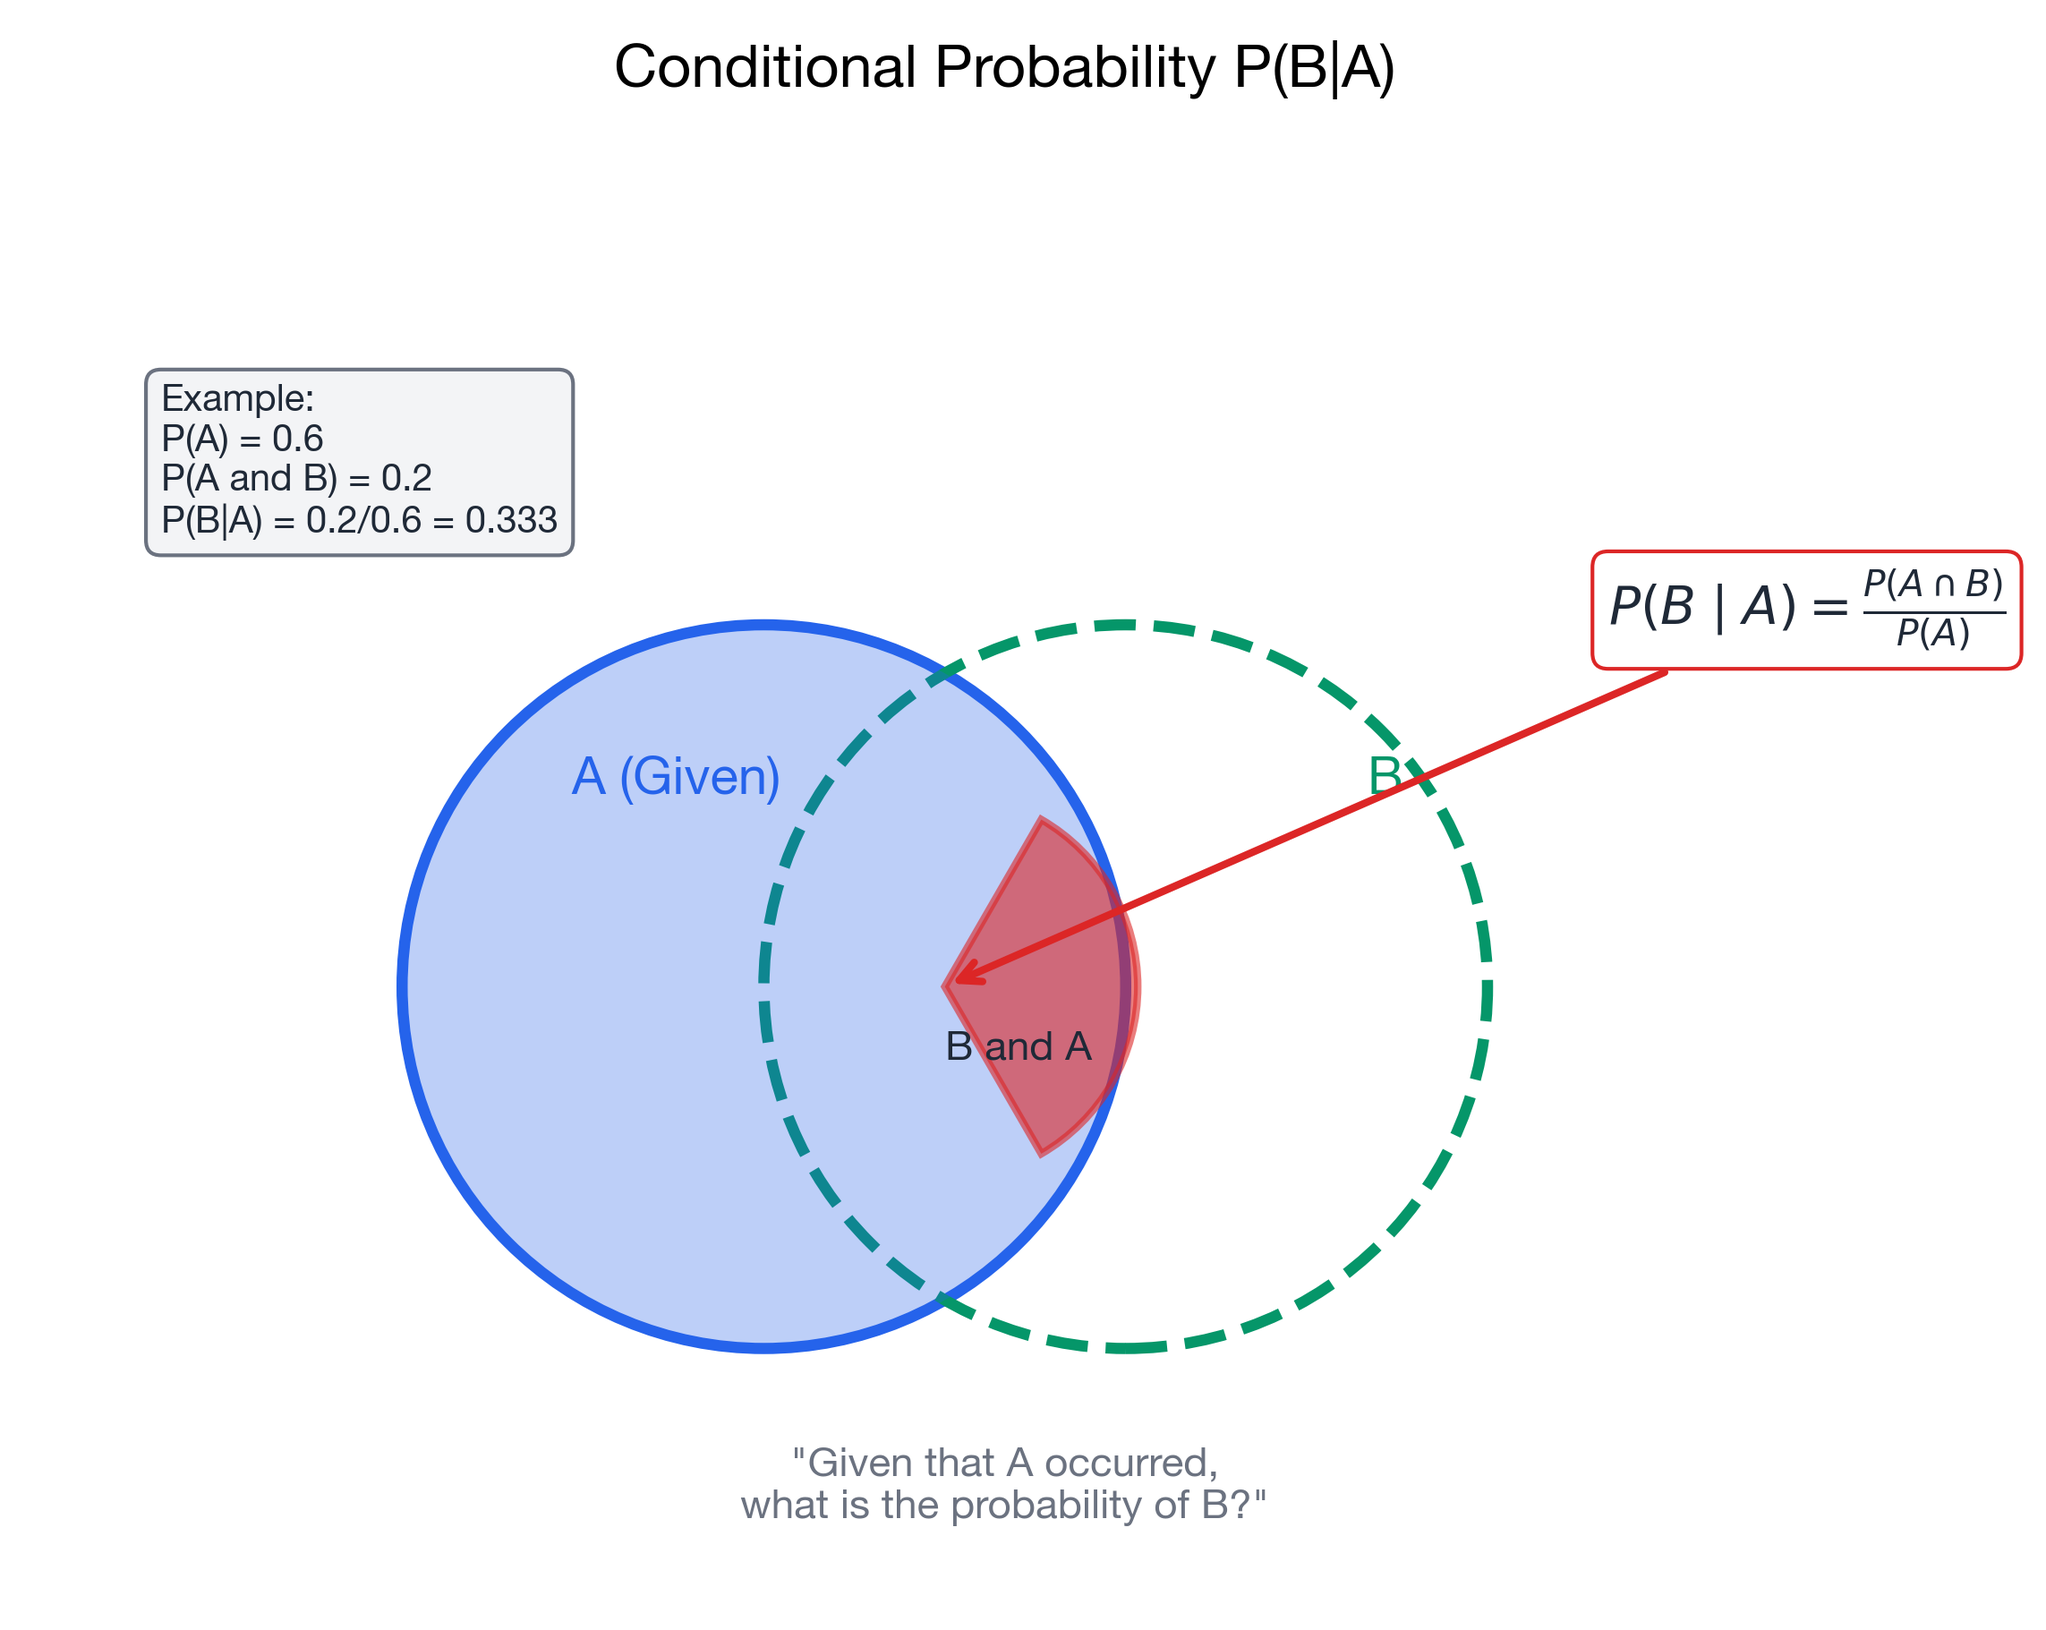
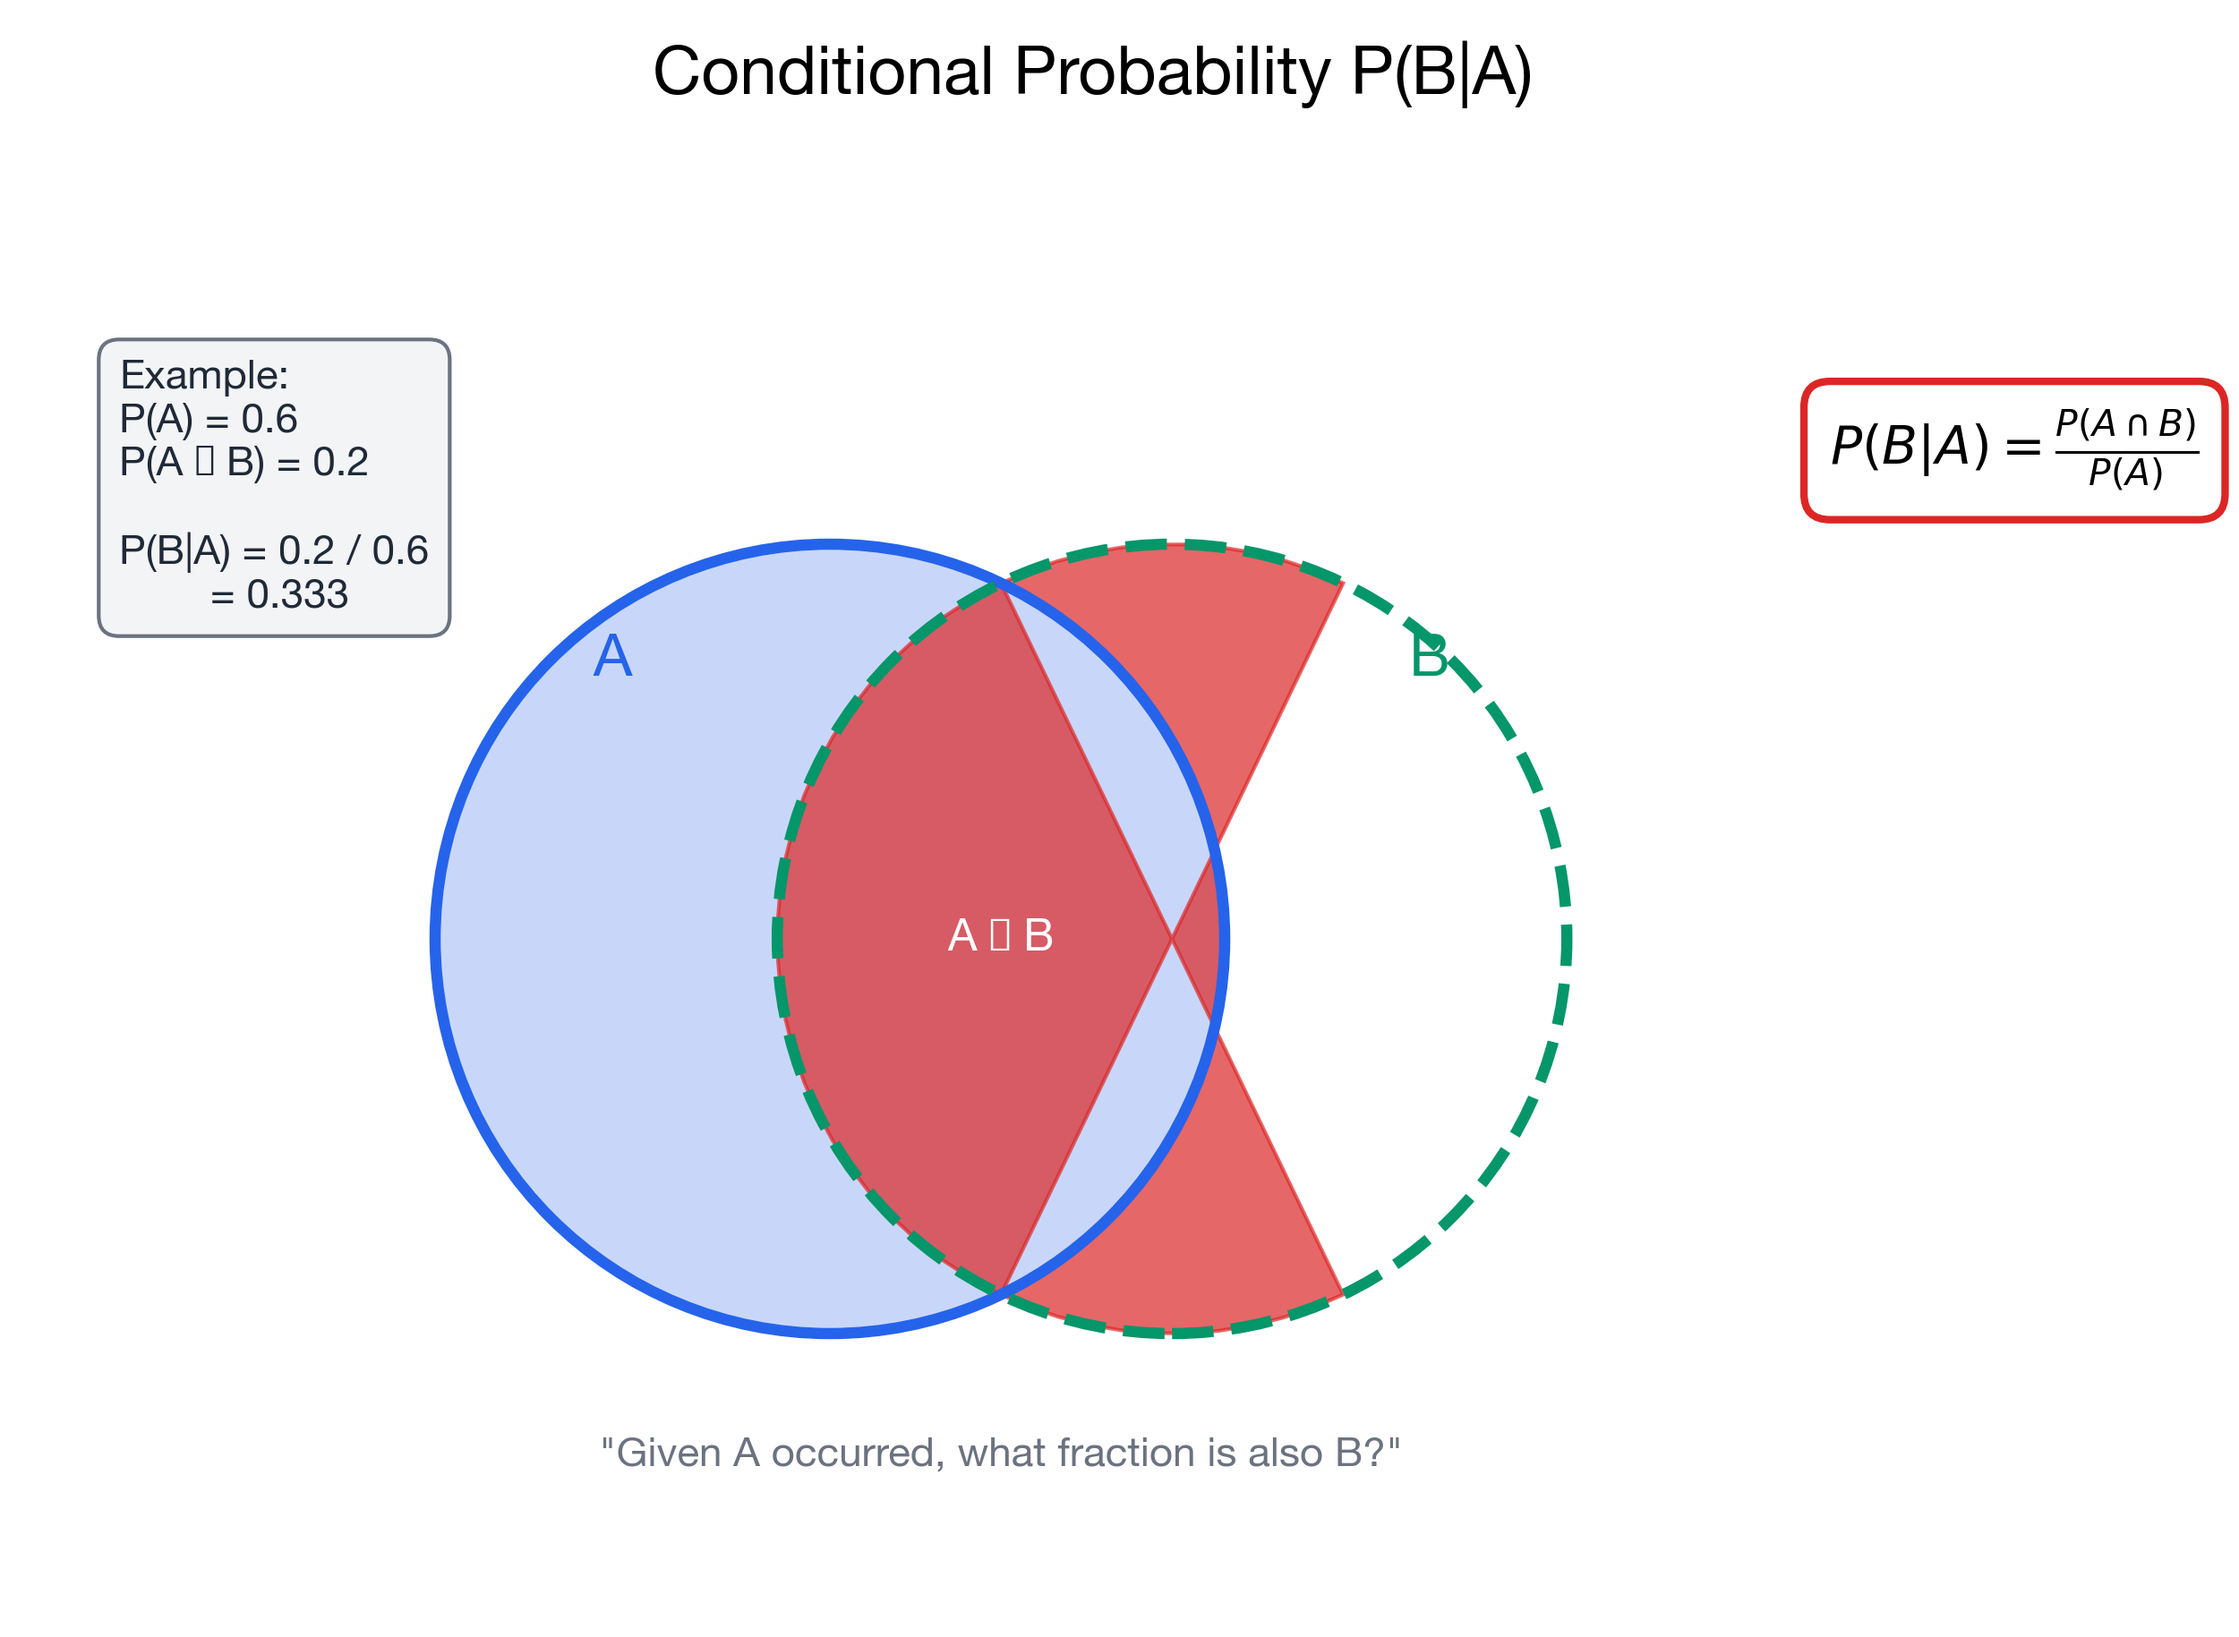
Fix conditional_probability_venn intersection shape
- Calculate proper lens-shaped intersection using arc geometry
- Arcs now perfectly match the circle boundaries
- Removed hacky Wedge approximation
- Better label positioning with A ∩ B centered in intersection
- Cleaner layout with more space

diff --git a/statistics/tools/generate_images.py b/statistics/tools/generate_images.py
@@ -1107,51 +1107,79 @@ def generate_addition_rule_venn():
 
 
 def generate_conditional_probability_venn():
-    """Generate Venn diagram for conditional probability."""
-    fig, ax = plt.subplots(figsize=(10, 7))
+    """Generate Venn diagram for conditional probability with proper intersection."""
+    fig, ax = plt.subplots(figsize=(12, 7))
     ax.set_xlim(-3, 5)
-    ax.set_ylim(-2.5, 3.5)
+    ax.set_ylim(-2.5, 3)
     ax.set_aspect('equal')
     ax.axis('off')
     
-    # Circle A (condition)
-    circle_a = Circle((0, 0), 1.5, facecolor='none', edgecolor=COLORS['primary'], linewidth=3)
-    ax.add_patch(circle_a)
+    # Circle parameters
+    r = 1.5
+    x_a, y_a = 0, 0
+    x_b, y_b = 1.3, 0  # Closer overlap for clearer intersection
     
-    # Circle B
-    circle_b = Circle((1.5, 0), 1.5, facecolor='none', edgecolor=COLORS['accent'], linewidth=3, linestyle='--')
-    ax.add_patch(circle_b)
+    # Create proper lens-shaped intersection using Path
+    from matplotlib.path import Path
+    from matplotlib.patches import PathPatch
     
-    # Highlight A (given)
-    circle_a_fill = Circle((0, 0), 1.5, facecolor=COLORS['primary'], alpha=0.3)
+    # Calculate intersection points
+    d = x_b - x_a  # distance between centers
+    # Intersection points are at x = (d^2 + r^2 - r^2) / (2*d) = d/2 from center A
+    # y = +/- sqrt(r^2 - (d/2)^2)
+    x_intersect = d / 2
+    y_intersect = np.sqrt(r**2 - (d/2)**2)
+    
+    # Create lens shape by combining two arcs
+    theta_a = np.arctan2(y_intersect, x_intersect - x_a)
+    theta_b = np.arctan2(y_intersect, x_intersect - x_b)
+    
+    # Arc from circle A (right side)
+    t1 = np.linspace(-theta_a, theta_a, 50)
+    arc_a_x = x_a + r * np.cos(t1)
+    arc_a_y = y_a + r * np.sin(t1)
+    
+    # Arc from circle B (left side)  
+    t2 = np.linspace(np.pi - theta_b, np.pi + theta_b, 50)
+    arc_b_x = x_b + r * np.cos(t2)
+    arc_b_y = y_b + r * np.sin(t2)
+    
+    # Combine into lens path
+    lens_x = np.concatenate([arc_a_x, arc_b_x[::-1]])
+    lens_y = np.concatenate([arc_a_y, arc_b_y[::-1]])
+    
+    # Fill circle A first (light blue)
+    circle_a_fill = Circle((x_a, y_a), r, facecolor=COLORS['primary'], alpha=0.25)
     ax.add_patch(circle_a_fill)
     
-    # Highlight intersection
-    from matplotlib.patches import Wedge
-    theta1 = np.degrees(np.arccos(0.5))  # angle for intersection
-    wedge = Wedge((0.75, 0), 0.8, -60, 60, facecolor=COLORS['warning'], alpha=0.6, edgecolor=COLORS['warning'], linewidth=2)
-    ax.add_patch(wedge)
+    # Fill intersection (orange/warning color)
+    ax.fill(lens_x, lens_y, color=COLORS['warning'], alpha=0.7, zorder=3)
+    
+    # Draw circle outlines on top
+    circle_a = Circle((x_a, y_a), r, facecolor='none', edgecolor=COLORS['primary'], linewidth=3, zorder=4)
+    circle_b = Circle((x_b, y_b), r, facecolor='none', edgecolor=COLORS['accent'], linewidth=3, linestyle='--', zorder=4)
+    ax.add_patch(circle_a)
+    ax.add_patch(circle_b)
     
     # Labels
-    ax.text(-0.8, 0.8, 'A (Given)', fontsize=14, fontweight='bold', color=COLORS['primary'])
-    ax.text(2.5, 0.8, 'B', fontsize=14, fontweight='bold', color=COLORS['accent'])
-    ax.text(0.75, -0.3, 'B and A', fontsize=11, fontweight='bold', color=COLORS['dark'])
+    ax.text(-0.9, 1.0, 'A', fontsize=16, fontweight='bold', color=COLORS['primary'])
+    ax.text(2.2, 1.0, 'B', fontsize=16, fontweight='bold', color=COLORS['accent'])
+    ax.text(0.65, 0, 'A ∩ B', fontsize=12, fontweight='bold', color='white', ha='center', va='center', zorder=5)
     
-    # Arrow and explanation (use consistent set notation + mathtext)
-    ax.annotate(r'$P(B\mid A)=\frac{P(A\cap B)}{P(A)}$', xy=(0.75, 0), xytext=(3.5, 1.5),
-                fontsize=14, fontweight='bold', color=COLORS['dark'],
-                arrowprops=dict(arrowstyle='->', color=COLORS['warning'], lw=2),
-                bbox=dict(boxstyle='round', facecolor='white', edgecolor=COLORS['warning']))
+    # Formula box (positioned clearly)
+    ax.text(3.8, 1.8, r'$P(B|A) = \frac{P(A \cap B)}{P(A)}$', fontsize=14, fontweight='bold',
+            bbox=dict(boxstyle='round,pad=0.5', facecolor='white', edgecolor=COLORS['warning'], linewidth=2))
     
-    ax.text(1, -2.2, '"Given that A occurred,\nwhat is the probability of B?"', 
+    # Interpretation
+    ax.text(0.65, -2.0, '"Given A occurred, what fraction is also B?"', 
             fontsize=11, ha='center', style='italic', color=COLORS['neutral'])
     
-    # Add numerical example
-    ax.text(-2.5, 2.5, 'Example:\nP(A) = 0.6\nP(A and B) = 0.2\nP(B|A) = 0.2/0.6 = 0.333',
-            fontsize=10, ha='left', va='top', color=COLORS['dark'],
-            bbox=dict(boxstyle='round,pad=0.4', facecolor=COLORS['light'], edgecolor=COLORS['neutral']))
+    # Numerical example
+    ax.text(-2.7, 2.2, 'Example:\nP(A) = 0.6\nP(A ∩ B) = 0.2\n\nP(B|A) = 0.2 / 0.6\n        = 0.333',
+            fontsize=11, ha='left', va='top', color=COLORS['dark'],
+            bbox=dict(boxstyle='round,pad=0.5', facecolor=COLORS['light'], edgecolor=COLORS['neutral']))
     
-    ax.set_title('Conditional Probability P(B|A)', fontsize=16, fontweight='bold', pad=15)
+    ax.set_title('Conditional Probability P(B|A)', fontsize=18, fontweight='bold', pad=15)
     
     save_figure(fig, 'conditional_probability_venn.png')
 
